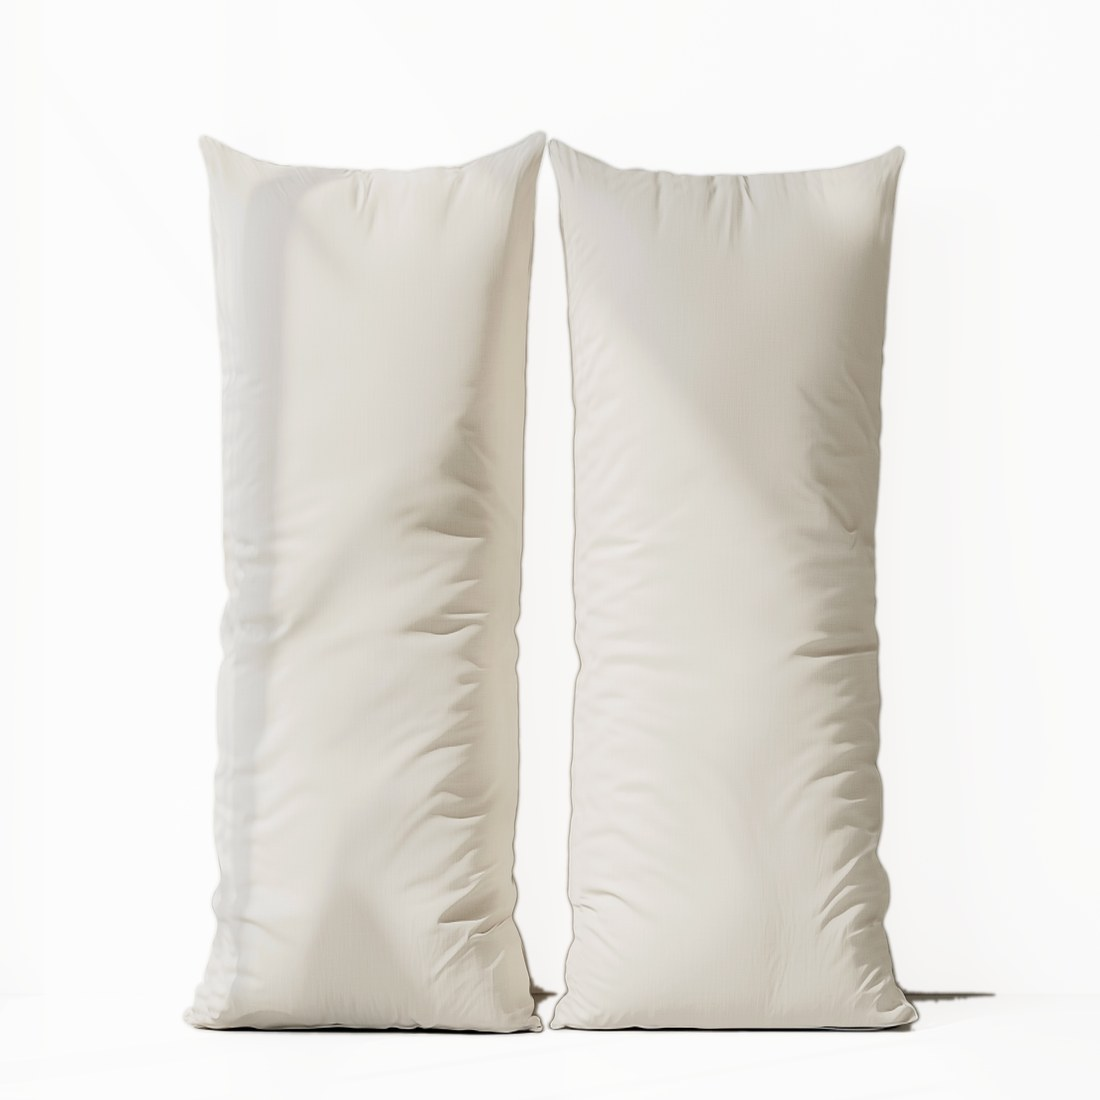
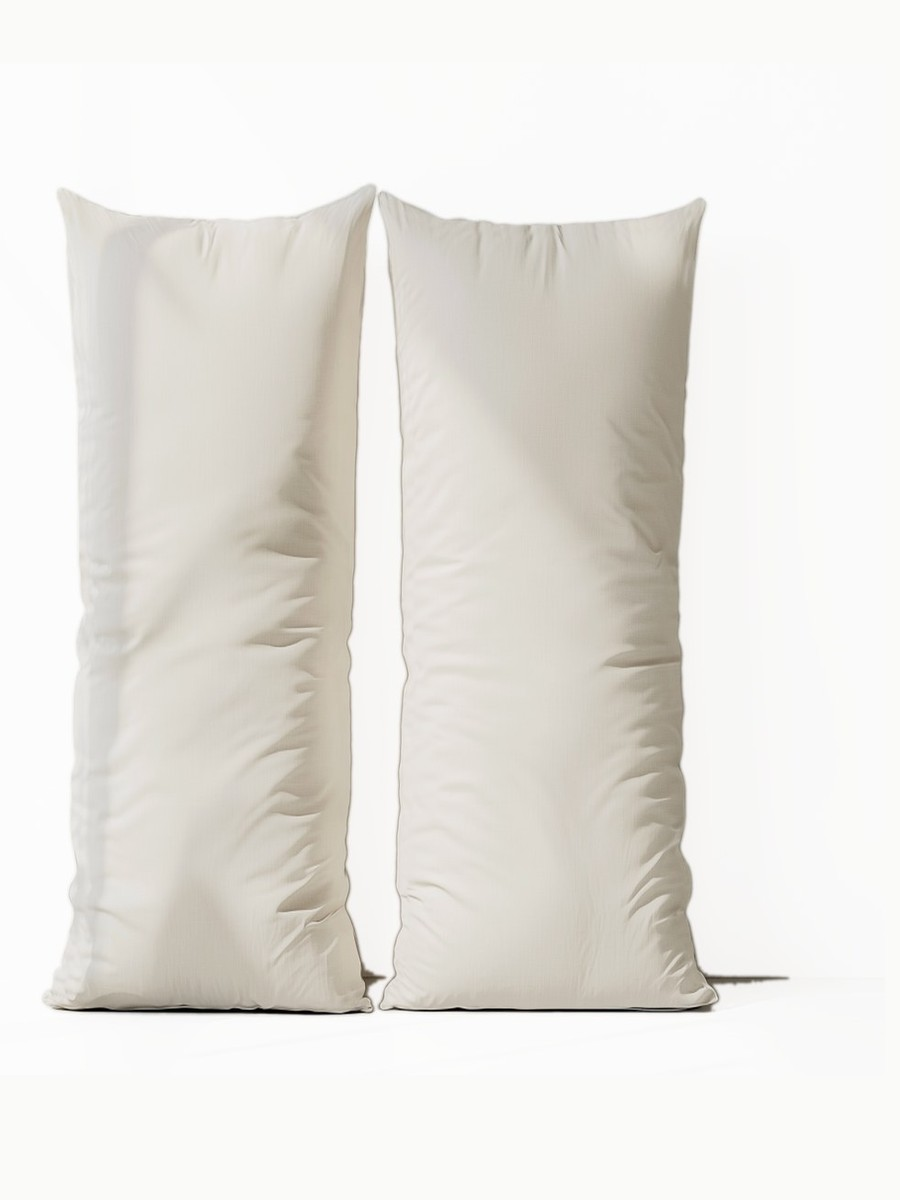
Add files via upload

diff --git a/preview.html b/preview.html
@@ -30,18 +30,18 @@ a{color:var(--ink)}
 :focus-visible{outline:2px solid var(--accent);outline-offset:3px;border-radius:6px}
 
 /* ---------- wordmark ---------- */
-.mark{font:600 17px/1 Literata,Georgia,serif;letter-spacing:.01em;margin:0 0 40px}
+.mark{font:600 17px/1 Literata,Georgia,serif;letter-spacing:.01em;margin:0 0 22px}
 .mark span{color:var(--accent)}
 
 /* ---------- hero ---------- */
 .hero h1{
-  font:600 clamp(31px,6.4vw,50px)/1.1 Literata,Georgia,serif;
-  letter-spacing:-.022em; margin:0 0 14px; text-wrap:balance;
+  font:600 clamp(27px,6.4vw,50px)/1.12 Literata,Georgia,serif;
+  letter-spacing:-.022em; margin:0 0 10px; text-wrap:balance;
 }
 .hero .lead{color:var(--dim);font-size:17px;margin:0;max-width:52ch}
 
 /* ---------- stage ---------- */
-.carousel{position:relative;margin:14px -20px 0}
+.carousel{position:relative;margin:12px -20px 0}
 .track{display:flex;gap:10px;overflow-x:auto;scroll-behavior:smooth;
   scroll-snap-type:x proximity;padding:0 20px;
   scrollbar-width:none;-ms-overflow-style:none}
@@ -51,7 +51,7 @@ a{color:var(--ink)}
 .slide .cap{position:absolute;left:10px;top:10px;background:rgba(255,255,255,.88);
   border-radius:8px;padding:4px 9px;font-size:12.5px;color:var(--ink);backdrop-filter:blur(3px)}
 /* навігація каруселі — під малюнком, разом із крапками */
-.carnav{display:flex;align-items:center;justify-content:center;gap:16px;margin-top:12px}
+.carnav{display:flex;align-items:center;justify-content:center;gap:16px;margin-top:10px}
 .nav{width:40px;height:40px;border-radius:50%;border:none;
   background:var(--accent);cursor:pointer;font-size:20px;line-height:1;color:#fff;
   display:grid;place-content:center;padding:0;font-weight:600;
@@ -83,13 +83,13 @@ a{color:var(--ink)}
 @keyframes pop{from{opacity:0;transform:scale(.985)}to{opacity:1;transform:none}}
 
 /* ---------- головна дія ---------- */
-.cta{margin-top:26px}
+.cta{margin-top:18px}
 .cta .btn-go{width:100%}
 
 /* ---------- вкладки сторін ---------- */
-.sides{display:flex;gap:8px;margin-top:14px}
-.sides button{
-  flex:1;font:500 15px/1.25 Onest,sans-serif;padding:12px 10px;border-radius:12px;cursor:pointer;
+.sides{display:flex;gap:8px;margin-top:11px}
+  .sides button{
+  flex:1;font:500 14.5px/1.25 Onest,sans-serif;padding:10px 10px;border-radius:12px;cursor:pointer;
   border:1px solid var(--line);background:var(--surface);color:var(--dim);
   transition:border-color .15s,color .15s,background .15s;
 }
@@ -103,7 +103,7 @@ a{color:var(--ink)}
 .dots i{width:7px;height:7px;border-radius:50%;background:#D8CFD4;transition:background .15s}
 .dots i.on{background:var(--accent)}
 
-.both{display:flex;align-items:center;gap:9px;margin-top:14px;font-size:14px;color:var(--dim);cursor:pointer}
+.both{display:flex;align-items:center;gap:9px;margin-top:11px;font-size:14px;color:var(--dim);cursor:pointer}
 .both input{width:18px;height:18px;accent-color:var(--accent);cursor:pointer}
 
 
@@ -135,8 +135,9 @@ a{color:var(--ink)}
 @media (min-width:561px){ .seg button{font-size:15px;padding:14px 8px} }
 
 /* ---------- колір подушки ---------- */
-.colors{display:flex;align-items:center;gap:8px;flex-wrap:wrap;margin-top:14px}
-.sw{width:34px;height:34px;border-radius:9px;cursor:pointer;padding:0;
+/* дев'ять зразків мають лягати в один ряд навіть на 360 px */
+.colors{display:flex;align-items:center;gap:6px;flex-wrap:nowrap;margin-top:12px}
+  .sw{flex:1 1 0;min-width:0;aspect-ratio:1;max-width:38px;border-radius:9px;cursor:pointer;padding:0;
   border:1px solid rgba(0,0,0,.14);transition:outline-color .12s;
   outline:2px solid transparent;outline-offset:2px}
 .sw:hover{border-color:rgba(0,0,0,.3)}
@@ -151,6 +152,8 @@ progress{width:100%;height:5px;margin-top:10px;display:none;accent-color:var(--a
 
 /* ---------- sections ---------- */
 section{margin-top:56px}
+/* перша секція починається помітно нижче: перший екран — це макет і керування */
+.shell > section:first-of-type{margin-top:clamp(56px,11vh,110px)}
 h2{font:600 clamp(22px,4.6vw,27px)/1.25 Literata,Georgia,serif;
    letter-spacing:-.015em;margin:0 0 16px}
 
@@ -217,7 +220,7 @@ footer a:hover{color:var(--ink)}
 
   <div class="hero">
     <h1>Твоє фото на подушці, яку справді можна обійняти</h1>
-    <p class="lead">Завантаж будь-яке фото — макет з'явиться тут за секунду. Далі можна прибрати фон і підібрати колір, поки не сподобається.</p>
+    <p class="lead">Завантаж фото — макет з'явиться тут за секунду.</p>
   </div>
 
   <div class="cta">
